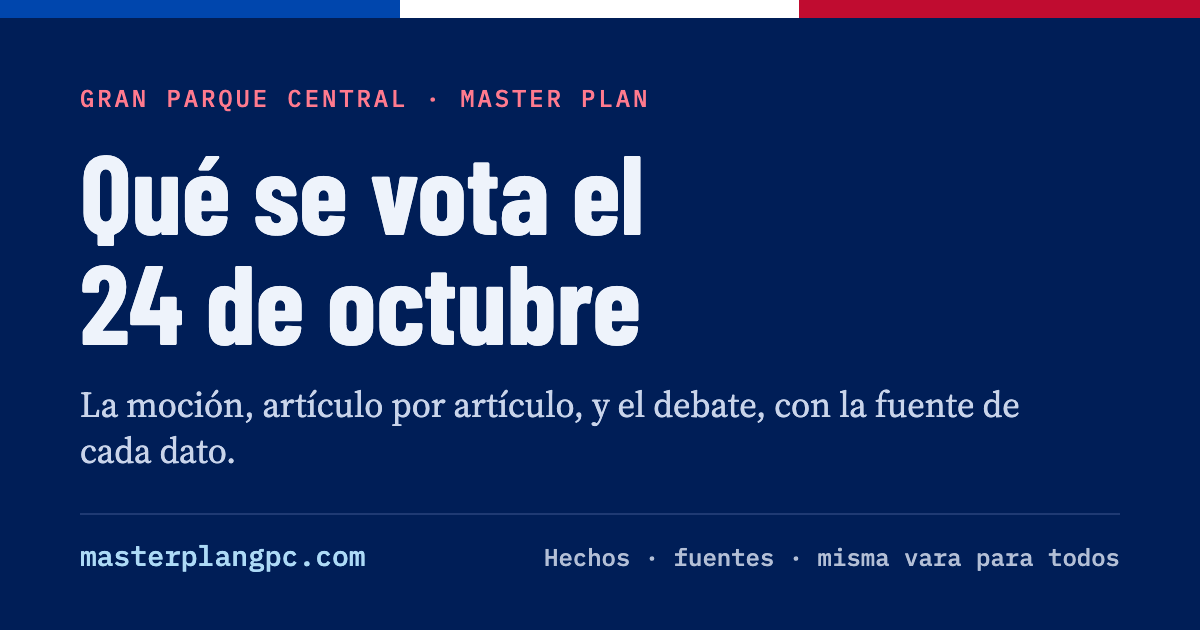
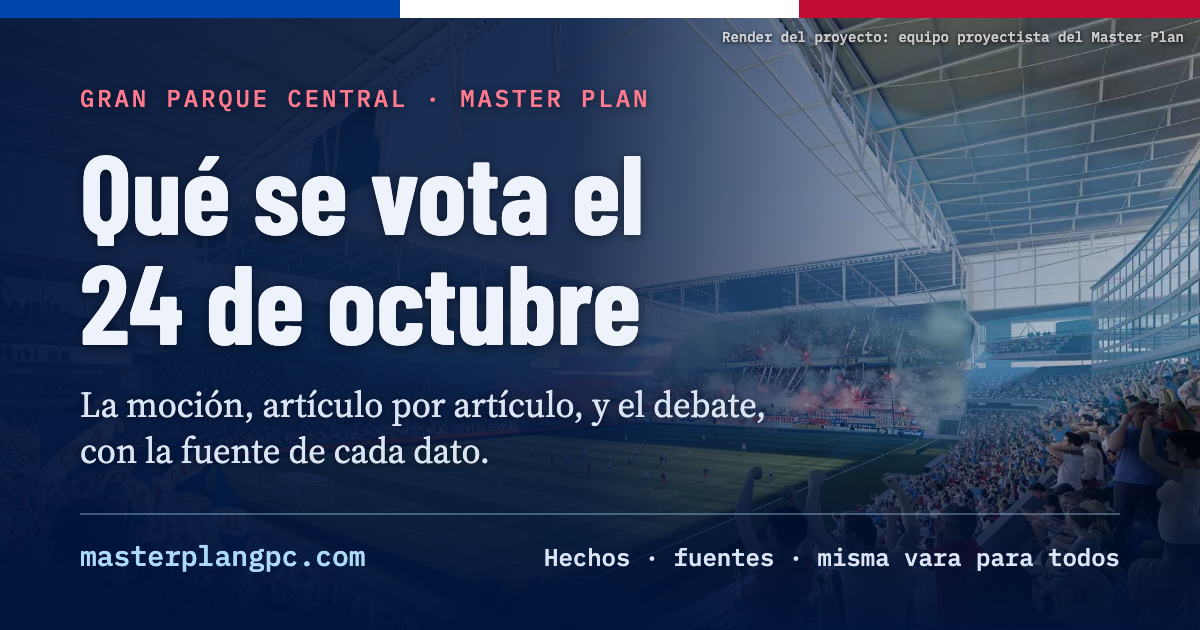
Usar el render del proyecto como fondo de la vista previa
El render del estadio (equipo proyectista, vía stadiumdb.com) queda de
fondo, oscurecido a la izquierda para que el texto se lea, con crédito
en la imagen.

Claude-Session: https://claude.ai/code/session_01X86pjQXNyTcQGK1xx4JYnh

diff --git a/sitio/og.html b/sitio/og.html
@@ -1,20 +1,23 @@
 <!doctype html>
-<!-- Plantilla de la imagen para vistas previas (og.png, 1200×630). Se genera con:
+<!-- Plantilla de la imagen para vistas previas (og.png, 1200×630). Fondo: og-fondo.jpg, render del proyecto del equipo proyectista (vía stadiumdb.com). Se genera con:
      "/Applications/Google Chrome.app/Contents/MacOS/Google Chrome" --headless=new --hide-scrollbars --window-size=1200,630 --screenshot=og.png og.html -->
 <html lang="es"><head><meta charset="utf-8">
 <link rel="stylesheet" href="https://fonts.googleapis.com/css2?family=Barlow+Condensed:wght@700&family=IBM+Plex+Mono:wght@500&family=Source+Serif+4:opsz,wght@8..60,400&display=block">
 <style>
 html, body { margin: 0; width: 1200px; height: 630px; overflow: hidden; }
-body { background: #001e57; color: #eef3fb; font-family: "Source Serif 4", Georgia, serif; display: flex; flex-direction: column; }
+body { background: #001e57 url(og-fondo.jpg) center 40% / cover no-repeat; color: #eef3fb; font-family: "Source Serif 4", Georgia, serif; display: flex; flex-direction: column; }
 .bar { height: 18px; background: linear-gradient(90deg, #0046ad 0 33.3%, #ffffff 33.3% 66.6%, #c00c30 66.6% 100%); flex: none; }
-.main { flex: 1; padding: 64px 80px 56px; display: flex; flex-direction: column; justify-content: space-between; }
+.main { background: linear-gradient(90deg, rgba(0,20,60,.94) 0%, rgba(0,20,60,.86) 48%, rgba(0,20,60,.35) 78%, rgba(0,20,60,.15) 100%), linear-gradient(0deg, rgba(0,20,60,.9) 0%, rgba(0,20,60,0) 32%); flex: 1; padding: 64px 80px 56px; display: flex; flex-direction: column; justify-content: space-between; }
 .eyebrow { font-family: "IBM Plex Mono", monospace; font-size: 24px; letter-spacing: .12em; text-transform: uppercase; color: #ff7a8e; }
 h1 { font-family: "Barlow Condensed", sans-serif; font-weight: 700; font-size: 112px; line-height: .98; margin: 22px 0 26px; }
-p { font-size: 36px; line-height: 1.3; margin: 0; color: #c9d4ea; max-width: 980px; }
-.pie { display: flex; justify-content: space-between; align-items: baseline; font-family: "IBM Plex Mono", monospace; font-size: 28px; color: #addaf6; border-top: 2px solid #1f3a73; padding-top: 22px; }
-.pie span:last-child { color: #b3bfd6; font-size: 24px; }
+p { font-size: 36px; line-height: 1.3; margin: 0; color: #dbe4f5; max-width: 700px; text-shadow: 0 1px 8px rgba(0,0,0,.5); }
+h1, .eyebrow { text-shadow: 0 2px 12px rgba(0,0,0,.5); }
+.credito { position: absolute; right: 16px; top: 28px; font-family: "IBM Plex Mono", monospace; font-size: 14px; color: rgba(255,255,255,.75); text-shadow: 0 1px 4px rgba(0,0,0,.8); }
+.pie { display: flex; justify-content: space-between; align-items: baseline; font-family: "IBM Plex Mono", monospace; font-size: 28px; color: #addaf6; border-top: 2px solid rgba(173,218,246,.35); padding-top: 22px; }
+.pie span:last-child { color: #dbe4f5; font-size: 24px; }
 </style></head><body>
 <div class="bar"></div>
+<div class="credito">Render del proyecto: equipo proyectista del Master Plan</div>
 <div class="main">
   <div>
     <div class="eyebrow">Gran Parque Central · Master Plan</div>
